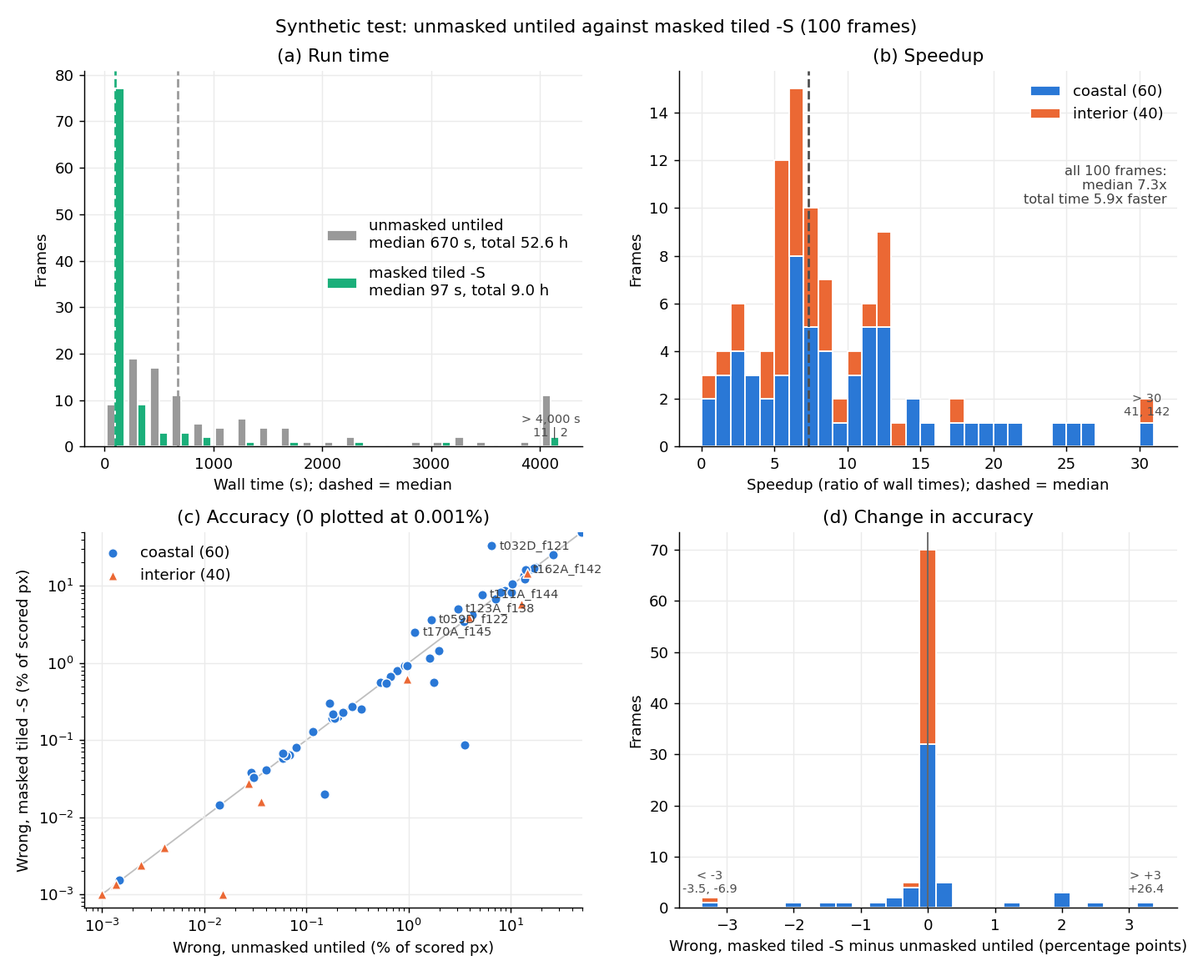
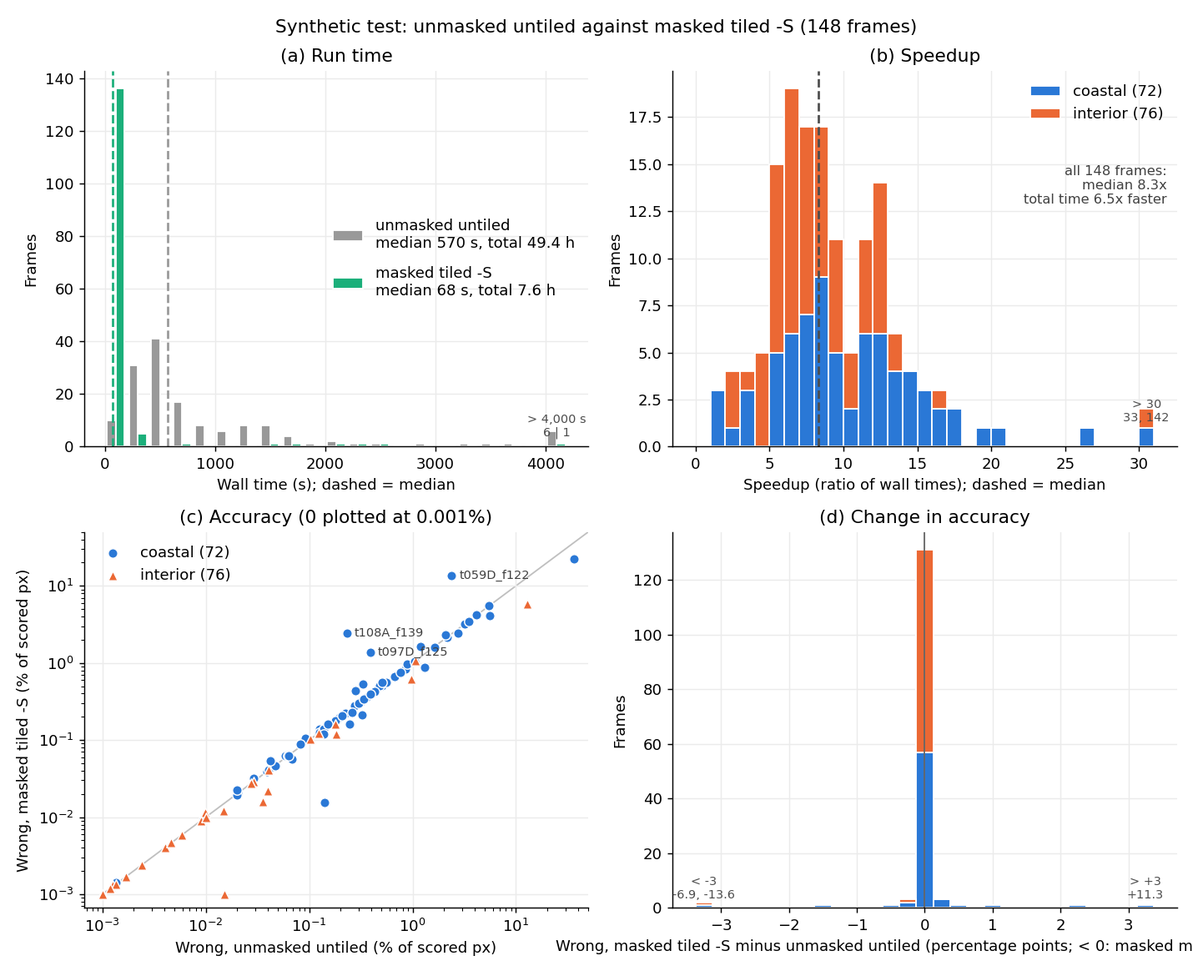
snaphuTilingMasking: 3.5, Table 3, Figure 6 and Appendix A from the corrected test (148 frames, provisional)
Claude-Session: https://claude.ai/code/session_01UG6jZhctxPfaFKqE7cozuF

diff --git a/Documents/snaphuTilingMasking.md b/Documents/snaphuTilingMasking.md
@@ -361,43 +361,45 @@ of the synthetic error therefore says nothing about the unwrapping methods.
 it exceeds pi radians per pixel; blank where the velocity map has no data. (b, c) Pixels with the wrong cycle count
 in the masked tiled `-S` and unmasked untiled solutions; dark grey is masked or has no truth.*
 
-### 3.5 Synthetic test: all 100 frames
+### 3.5 Synthetic test: all frames
 
-Table 3 and Figure 6 summarize the 100 frames (60 coastal, 40 interior); Appendix A lists every frame. Masked tiled
-`-S` unwrapping took a median of 97 s per frame against 670 s for unmasked untiled unwrapping (Figure 6a). The median
-speedup is 7.3 times (Figure 6b), and the total time fell 5.9 times, from 52.6 h to 9.0 h.
+*Provisional: 148 of the 200 frames (72 coastal, 76 interior) of the corrected test have both runs finished. This
+section will be updated when the test finishes.*
 
-**Accuracy.** Most frames are unchanged (Figure 6c, d). On 69 of the 94 frames that could be scored the two errors
-are within 0.07 percentage points of each other, and on 81 within 0.5 points. The remaining differences go both
-ways: ten frames are substantially better and six substantially worse (Table 3). The gains are large on a few
-frames (`t151A_f138` 12.8% to 5.9%, `t044D_f123` 3.6% to 0.09%, `t097D_f125` 1.8% to 0.6%), and the losses are
-large on one (`t032D_f121` 6.5% to 32.9%). Over all scored frames the mean error rose from 3.6% to 3.8% and the
-median fell from 0.098% to 0.074%; the losses (36 percentage points summed) outweigh the gains (17 points), most of
-them on `t032D_f121`.
+Table 3 and Figure 6 summarize the frames finished so far; Appendix A lists every frame. Masked tiled `-S`
+unwrapping took a median of 68 s per frame against 570 s for unmasked untiled unwrapping (Figure 6a). The median
+speedup is 8.3 times (Figure 6b), and the total time fell 6.5 times, from 49.4 h to 7.6 h.
 
-All six losses come from the mask, not from tiling: unwrapping the masked input untiled gives the same error to
-within 0.02 percentage points on every one of them (`t170A_f145`, `t059D_f122`, `t032D_f121`, `t162A_f142`,
-`t123A_f138` and `t111A_f144`). The mask works in both directions. It helps where it removes noise that untiled
-snaphu would otherwise route through good data, and it hurts where it cuts good data into pieces whose relative
-cycle offsets the remaining data no longer fix (Section 4).
+**Accuracy.** Most frames are unchanged (Figure 6c, d). On 128 of the 145 frames that could be scored the two errors
+are within 0.07 percentage points of each other, and on 139 within 0.5 points. The median share of wrong pixels is
+0.036% unmasked untiled and 0.027% masked tiled `-S`. A few frames change substantially, six for the better and three
+for the worse (Table 3):
 
-*Table 3. Synthetic test, all 100 frames, by class. Totals are summed wall-clock times. "Wrong" is the median share
-of scored pixels with the wrong cycle count. "Substantially worse" and "substantially better" use the rule of
-Table 2 in each direction.*
+- Better: `t104A_f142` (36.1% to 22.5%), `t151A_f138` (12.8% to 5.9%), `t111A_f144` (5.6% to 4.1%), and three
+  frames whose errors were already below 0.15% (`t073D_f123`, `t087A_f142`, `t059D_f123`).
+- Worse: `t059D_f122` (2.4% to 13.7%), `t108A_f139` (0.23% to 2.4%) and `t097D_f125` (0.39% to 1.4%).
+
+In the first version of the test, every frame that lost accuracy was also unwrapped with the masked input untiled,
+and in every case that run had the same error as the masked tiled run: the losses came from the mask, not from
+tiling. The three losses in the corrected test have not yet been checked this way.
+
+*Table 3. Synthetic test, the frames finished so far, by class. Totals are summed wall-clock times. "Wrong" is the
+median share of scored pixels with the wrong cycle count. "Substantially worse" and "substantially better" use the
+rule of Table 2 in each direction.*
 
 | Set | Frames | Unmasked untiled, total | Masked tiled `-S`, total | Speedup, median (range) | Wrong, unmasked untiled | Wrong, masked tiled `-S` | Substantially worse | Substantially better |
 |---|---|---|---|---|---|---|---|---|
-| all | 100 | 52.6 h | 9.0 h | 7.3 (0.8-141.8) | 0.098% | 0.074% | 6 of 94 | 10 of 94 |
-| coastal | 60 | 35.5 h | 5.6 h | 8.1 (0.8-41.2) | 0.965% | 0.854% | 6 of 54 | 7 of 54 |
-| interior | 40 | 17.1 h | 3.4 h | 6.6 (0.8-141.8) | 0.000% | 0.000% | 0 of 40 | 3 of 40 |
+| all | 148 | 49.4 h | 7.6 h | 8.3 (1.3-141.8) | 0.036% | 0.027% | 3 of 145 | 6 of 145 |
+| coastal | 72 | 23.4 h | 3.5 h | 9.4 (1.3-33.0) | 0.281% | 0.300% | 3 of 69 | 3 of 69 |
+| interior | 76 | 26.0 h | 4.1 h | 7.6 (2.4-141.8) | 0.000% | 0.000% | 0 of 76 | 3 of 76 |
 
 ![Figure 6](images/snaphuTiling_syntheticSummary.png)
-*Figure 6. Synthetic test, all 100 frames. (a) Wall time of each run, with medians (dashed) and totals; runs longer
-than 4,000 s are in the last bin (unmasked untiled | masked tiled `-S`). (b) Speedup, stacked by class, with the
-median (dashed); speedups above 30 are in the last bin, with their values. (c) Share of scored pixels with the wrong
-cycle count, masked tiled `-S` against unmasked untiled, on log axes (zero plotted at 0.001%); frames substantially
-worse are labelled. (d) Change in that share, masked tiled `-S` minus unmasked untiled (negative where the masked run is more accurate); changes beyond ±3 points
-are in the end bins, with their values.*
+*Figure 6. Synthetic test, the 148 frames finished so far. (a) Wall time of each run, with medians (dashed) and
+totals; runs longer than 4,000 s are in the last bin (unmasked untiled | masked tiled `-S`). (b) Speedup, stacked by
+class, with the median (dashed); speedups above 30 are in the last bin, with their values. (c) Share of scored pixels
+with the wrong cycle count, masked tiled `-S` against unmasked untiled, on log axes (zero plotted at 0.001%); frames
+substantially worse are labelled. (d) Change in that share, masked tiled `-S` minus unmasked untiled (negative where
+the masked run is more accurate); changes beyond ±3 points are in the end bins, with their values.*
 
 ### 3.6 An overflow abort
 
@@ -518,114 +520,162 @@ lost accuracy (all to the mask). Next:
    fill of masked and sub-swath pixels) ahead of tiled unwrapping in production.
 5. **Real-data check.** Repeat the real-data comparison on a sample of frames with the final preprocessing.
 
-## Appendix A: synthetic test, all 100 frames
+## Appendix A: synthetic test, all frames
 
-*Table A1. Synthetic test, the first 100 frames. Columns as in Table 2. Red marks a masked tiled `-S` error
-substantially worse than the unmasked untiled one, green one substantially better (more than double or half, or
-more than 0.5 percentage points apart).*
+*Table A1. Synthetic test (corrected), the 148 frames finished so far; provisional. Columns as in Table 2. Red marks
+a masked tiled `-S` error substantially worse than the unmasked untiled one, green one substantially better (more
+than double or half, or more than 0.5 percentage points apart).*
 
 | Frame | Class | Size (Mpx) | L | Residues | Masked | Unmasked untiled | Masked tiled `-S` | Speedup | Wrong, unmasked untiled | Wrong, masked tiled `-S` |
 |---|---|---|---|---|---|---|---|---|---|---|
 | `t001A_f138` | interior | 14.0 | 208 | 8k | 0.0% | 485 s | 55 s | 8.9 | 0.000% | 0.000% |
-| `t003D_f121` | coastal | 7.0 | 16 | 1,915k | 77.8% | 770 s | 53 s | 14.6 | (no components) | (no components) |
+| `t003D_f121` | coastal | 7.0 | 16 | 138k | 2.4% | 670 s | 45 s | 15.0 | (no components) | (no components) |
 | `t004D_f133` | interior | 9.6 | 208 | 4k | 0.0% | 347 s | 28 s | 12.5 | 0.000% | 0.000% |
-| `t007D_f123` | coastal | 8.6 | 64 | 1,202k | 40.7% | 499 s | 85 s | 5.9 | 0.771% | 0.788% |
-| `t008D_f133` | interior | 6.9 | 208 | 553k | 1.4% | 303 s | 38 s | 7.9 | 0.000% | 0.000% |
-| `t011D_f126` | coastal | 14.3 | 64 | 2,386k | 34.9% | 7,411 s | 180 s | 41.2 | 0.346% | 0.254% |
-| `t011D_f128` | interior | 13.9 | 208 | 46k | 0.0% | 360 s | 54 s | 6.6 | 0.004% | 0.004% |
+| `t006A_f135` | interior | 9.3 | 208 | 46k | 0.0% | 564 s | 51 s | 11.1 | 0.029% | 0.029% |
+| `t007D_f123` | coastal | 8.6 | 64 | 44k | 0.2% | 543 s | 64 s | 8.5 | 0.133% | 0.136% |
+| `t008D_f131` | interior | 12.4 | 208 | 40k | 0.0% | 528 s | 65 s | 8.1 | 0.104% | 0.103% |
+| `t009A_f144` | coastal | 10.2 | 208 | 445k | 3.7% | 1,388 s | 139 s | 10.0 | 1.311% | 0.885% |
+| `t011A_f145` | coastal | 14.4 | 64 | 273k | 1.7% | 2,198 s | 105 s | 21.0 | 0.281% | 0.440% |
+| `t011A_f145` | coastal | 14.4 | 208 | 116k | 0.4% | 1,498 s | 84 s | 17.8 | 0.507% | 0.507% |
+| `t011D_f126` | coastal | 14.3 | 64 | 2,172k | 30.3% | 5,508 s | 167 s | 33.0 | 0.247% | 0.162% |
+| `t011D_f128` | interior | 13.9 | 208 | 46k | 0.0% | 376 s | 49 s | 7.7 | 0.004% | 0.004% |
 | `t013A_f143` | interior | 3.8 | 208 | 8k | 0.0% | 59 s | 11 s | 5.1 | 0.000% | 0.000% |
-| `t013A_f144` | coastal | 14.7 | 64 | 2,563k | 41.8% | 4,053 s | 186 s | 21.8 | 0.911% | 0.924% |
-| `t014A_f143` | coastal | 6.6 | 128 | 767k | 31.6% | 677 s | 81 s | 8.4 | 0.530% | 0.554% |
+| `t013A_f144` | coastal | 14.7 | 208 | 462k | 2.3% | 1,449 s | 127 s | 11.4 | 0.847% | 0.843% |
+| `t013D_f128` | interior | 10.8 | 32 | 83k | 0.3% | 465 s | 114 s | 4.1 | 0.005% | 0.005% |
+| `t014A_f143` | coastal | 6.6 | 128 | 219k | 6.8% | 366 s | 50 s | 7.3 | 0.092% | 0.104% |
 | `t017D_f123` | interior | 9.3 | 208 | 1,873k | 36.5% | 507 s | 82 s | 6.2 | 0.002% | 0.002% |
 | `t018D_f131` | interior | 14.0 | 208 | 94k | 0.0% | 336 s | 67 s | 5.0 | 0.000% | 0.000% |
-| `t020A_f139` | interior | 14.7 | 208 | 66k | 0.0% | 439 s | 67 s | 6.6 | 0.000% | 0.000% |
+| `t020A_f139` | interior | 14.7 | 208 | 66k | 0.0% | 496 s | 68 s | 7.3 | 0.000% | 0.000% |
+| `t020D_f123` | coastal | 14.8 | 208 | 612k | 3.7% | 1,111 s | 163 s | 6.8 | 0.029% | 0.032% |
+| `t022A_f139` | coastal | 6.3 | 64 | 32k | 0.0% | 333 s | 240 s | 1.4 | 59.114% | 59.115% |
+| `t022D_f129` | interior | 12.1 | 128 | 91k | 0.0% | 10,547 s | 2,241 s | 4.7 | 0.002% | 0.002% |
 | `t024A_f143` | interior | 6.9 | 208 | 296k | 1.4% | 235 s | 41 s | 5.7 | 0.000% | 0.000% |
-| `t024D_f119` | coastal | 4.7 | 16 | 1,387k | 88.1% | 304 s | 29 s | 10.5 | (no components) | (no components) |
 | `t025D_f126` | interior | 6.2 | 208 | 534k | 8.2% | 308 s | 37 s | 8.3 | 0.000% | 0.000% |
 | `t027A_f141` | interior | 14.8 | 128 | 152k | 0.0% | 487 s | 196 s | 2.5 | 0.001% | 0.001% |
-| `t030D_f122` | coastal | 4.2 | 64 | 800k | 45.0% | 343 s | 51 s | 6.7 | 1.973% | $\color{green}{\text{1.459\%}}$ |
-| `t032D_f121` | coastal | 13.6 | 32 | 2,355k | 45.5% | 1,403 s | 544 s | 2.6 | 6.512% | $\color{red}{\text{32.918\%}}$ |
+| `t030D_f122` | coastal | 4.2 | 128 | 176k | 2.4% | 362 s | 29 s | 12.6 | 1.189% | 1.636% |
+| `t031D_f123` | interior | 8.5 | 208 | 920k | 10.3% | 382 s | 60 s | 6.4 | 0.001% | 0.001% |
+| `t032D_f121` | coastal | 13.6 | 64 | 548k | 8.3% | 1,447 s | 93 s | 15.5 | 0.329% | 0.527% |
 | `t036A_f138` | interior | 14.4 | 128 | 25k | 0.0% | 830 s | 76 s | 10.9 | 0.000% | 0.000% |
-| `t036A_f139` | coastal | 16.4 | 32 | 2,423k | 43.4% | 3,360 s | 290 s | 11.6 | 3.403% | 3.616% |
-| `t037A_f142` | coastal | 10.0 | 32 | 1,608k | 37.0% | 664 s | 103 s | 6.4 | 0.117% | 0.130% |
-| `t038A_f144` | coastal | 16.1 | 128 | 782k | 7.5% | 1,020 s | 136 s | 7.5 | 0.178% | 0.194% |
+| `t036A_f139` | coastal | 16.4 | 128 | 56k | 0.0% | 1,419 s | 109 s | 13.0 | 0.180% | 0.180% |
+| `t037A_f142` | coastal | 10.0 | 32 | 398k | 1.0% | 597 s | 67 s | 8.9 | 0.127% | 0.139% |
+| `t038A_f144` | coastal | 16.1 | 208 | 216k | 1.6% | 1,166 s | 142 s | 8.2 | 0.326% | 0.212% |
+| `t041A_f140` | interior | 14.4 | 208 | 141k | 0.0% | 483 s | 75 s | 6.5 | 0.000% | 0.000% |
+| `t043D_f128` | interior | 9.6 | 208 | 409k | 0.0% | 364 s | 36 s | 10.2 | 0.001% | 0.001% |
 | `t044A_f139` | interior | 14.7 | 64 | 0k | 0.0% | 311 s | 39 s | 7.9 | 0.000% | 0.000% |
-| `t044D_f123` | coastal | 11.2 | 64 | 2,195k | 51.3% | 1,365 s | 118 s | 11.6 | 3.553% | $\color{green}{\text{0.087\%}}$ |
+| `t044D_f123` | coastal | 11.2 | 128 | 337k | 2.4% | 953 s | 77 s | 12.4 | 0.068% | 0.057% |
+| `t044D_f123` | coastal | 11.6 | 32 | 180k | 0.8% | 881 s | 118 s | 7.4 | 2.157% | 2.154% |
+| `t047D_f123` | interior | 3.9 | 208 | 346k | 0.0% | 153 s | 17 s | 9.0 | 0.001% | 0.001% |
 | `t048A_f137` | interior | 12.4 | 208 | 287k | 2.7% | 514 s | 72 s | 7.1 | 0.000% | 0.000% |
-| `t050A_f140` | coastal | 11.6 | 32 | 2,904k | 71.3% | 1,002 s | 115 s | 8.7 | 0.665% | 0.670% |
-| `t052A_f144` | coastal | 5.0 | 16 | 1,053k | 60.0% | 738 s | 121 s | 6.1 | 17.528% | 17.463% |
-| `t053D_f119` | coastal | 3.2 | 16 | 762k | 70.7% | 156 s | 20 s | 7.8 | (no components) | (no components) |
-| `t055D_f125` | coastal | 9.3 | 64 | 1,638k | 47.4% | 1,543 s | 100 s | 15.4 | 0.061% | 0.068% |
-| `t056A_f145` | coastal | 7.7 | 32 | 1,346k | 48.1% | 443 s | 73 s | 6.1 | 0.058% | 0.059% |
-| `t057D_f127` | coastal | 7.3 | 64 | 695k | 28.0% | 689 s | 781 s | 0.9 | 26.289% | $\color{green}{\text{25.474\%}}$ |
-| `t059D_f122` | coastal | 12.7 | 64 | 2,344k | 52.0% | 2,046 s | 162 s | 12.6 | 1.669% | $\color{red}{\text{3.669\%}}$ |
+| `t049D_f123` | coastal | 14.8 | 128 | 934k | 8.8% | 1,585 s | 132 s | 12.0 | 0.276% | 0.275% |
+| `t050A_f140` | coastal | 11.6 | 64 | 142k | 1.1% | 1,045 s | 62 s | 16.8 | 0.123% | 0.123% |
+| `t050D_f125` | interior | 11.6 | 208 | 4k | 0.0% | 334 s | 34 s | 9.8 | 0.000% | 0.000% |
+| `t051D_f124` | coastal | 6.6 | 16 | 18k | 0.0% | 416 s | 38 s | 10.9 | 0.308% | 0.308% |
+| `t052A_f141` | interior | 14.7 | 208 | 23k | 0.0% | 377 s | 49 s | 7.7 | 0.000% | 0.000% |
+| `t052A_f144` | coastal | 5.0 | 16 | 101k | 3.7% | 434 s | 31 s | 14.0 | 0.890% | 0.959% |
+| `t054D_f126` | interior | 14.3 | 64 | 1,390k | 9.7% | 1,487 s | 121 s | 12.3 | 0.010% | 0.011% |
+| `t055D_f125` | coastal | 9.3 | 64 | 633k | 14.1% | 958 s | 74 s | 13.0 | 0.059% | 0.062% |
+| `t055D_f133` | interior | 10.0 | 208 | 1k | 0.0% | 449 s | 27 s | 16.7 | 0.000% | 0.000% |
+| `t056A_f145` | coastal | 7.7 | 64 | 34k | 0.0% | 626 s | 49 s | 12.8 | 0.039% | 0.039% |
+| `t057D_f127` | coastal | 7.3 | 128 | 15k | 0.0% | 414 s | 112 s | 3.7 | 3.175% | 3.175% |
+| `t057D_f127` | coastal | 6.9 | 208 | 39k | 0.0% | 446 s | 82 s | 5.5 | 3.484% | 3.484% |
+| `t059D_f122` | coastal | 12.7 | 208 | 196k | 1.3% | 1,375 s | 125 s | 11.0 | 2.384% | $\color{red}{\text{13.671\%}}$ |
 | `t059D_f123` | interior | 13.9 | 208 | 65k | 0.1% | 601 s | 89 s | 6.7 | 0.015% | $\color{green}{\text{0.000\%}}$ |
-| `t064A_f140` | coastal | 14.6 | 16 | 3,408k | 55.8% | 3,233 s | 168 s | 19.3 | 0.203% | 0.203% |
-| `t066D_f127` | coastal | 10.8 | 16 | 796k | 20.6% | 1,387 s | 216 s | 6.4 | 7.053% | 6.730% |
-| `t067A_f145` | coastal | 5.1 | 32 | 420k | 18.1% | 442 s | 40 s | 11.0 | 0.167% | 0.303% |
-| `t069D_f125` | coastal | 15.1 | 16 | 3,579k | 69.6% | 1,718 s | 138 s | 12.5 | (no components) | (no components) |
+| `t060A_f135` | interior | 8.1 | 208 | 7k | 0.0% | 222 s | 21 s | 10.7 | 0.000% | 0.000% |
+| `t062A_f137` | interior | 12.0 | 208 | 775k | 0.5% | 575 s | 60 s | 9.6 | 0.001% | 0.001% |
+| `t064A_f140` | coastal | 14.6 | 32 | 2,083k | 30.2% | 2,388 s | 157 s | 15.2 | 0.062% | 0.062% |
+| `t064D_f130` | interior | 13.0 | 208 | 0k | 0.0% | 587 s | 53 s | 11.1 | 0.000% | 0.000% |
+| `t065A_f139` | coastal | 8.5 | 208 | 85k | 0.7% | 765 s | 82 s | 9.3 | 5.440% | 5.506% |
+| `t066D_f127` | coastal | 10.8 | 32 | 38k | 0.1% | 530 s | 84 s | 6.3 | 0.562% | 0.562% |
+| `t067A_f145` | coastal | 5.1 | 32 | 75k | 2.4% | 405 s | 35 s | 11.7 | 0.477% | 0.507% |
+| `t068D_f125` | coastal | 10.0 | 128 | 1,323k | 18.0% | 770 s | 104 s | 7.4 | 0.020% | 0.020% |
+| `t069D_f125` | coastal | 15.1 | 64 | 213k | 3.3% | 1,596 s | 89 s | 17.9 | (no components) | (no components) |
+| `t071A_f134` | interior | 14.0 | 208 | 112k | 0.2% | 518 s | 54 s | 9.7 | 0.000% | 0.000% |
 | `t071A_f136` | interior | 13.3 | 208 | 0k | 0.0% | 355 s | 62 s | 5.7 | 0.000% | 0.000% |
-| `t072D_f127` | coastal | 13.2 | 208 | 907k | 18.9% | 1,062 s | 292 s | 3.6 | 8.730% | 8.757% |
-| `t073D_f123` | coastal | 15.8 | 128 | 1,983k | 24.8% | 1,373 s | 246 s | 5.6 | 0.150% | $\color{green}{\text{0.020\%}}$ |
-| `t074D_f121` | coastal | 8.2 | 32 | 1,852k | 56.5% | 890 s | 71 s | 12.5 | 0.069% | 0.064% |
-| `t075A_f146` | coastal | 15.1 | 16 | 4,520k | 90.5% | 1,405 s | 127 s | 11.1 | (no components) | (no components) |
+| `t072D_f127` | coastal | 13.2 | 208 | 13k | 0.0% | 835 s | 65 s | 12.9 | 0.224% | 0.223% |
+| `t073D_f123` | coastal | 15.8 | 208 | 647k | 2.3% | 1,452 s | 111 s | 13.1 | 0.141% | $\color{green}{\text{0.015\%}}$ |
+| `t073D_f124` | interior | 2.7 | 208 | 0k | 0.0% | 47 s | 8 s | 6.2 | 0.000% | 0.000% |
 | `t075D_f123` | interior | 3.8 | 208 | 28k | 0.0% | 132 s | 17 s | 7.8 | 0.000% | 0.000% |
-| `t076A_f142` | coastal | 2.4 | 16 | 725k | 92.1% | 105 s | 16 s | 6.5 | (no components) | (no components) |
-| `t078D_f122` | coastal | 3.9 | 16 | 989k | 73.9% | 270 s | 23 s | 11.6 | 0.228% | 0.227% |
-| `t080A_f139` | coastal | 10.1 | 208 | 599k | 12.1% | 582 s | 153 s | 3.8 | 13.538% | 13.553% |
-| `t080D_f133` | interior | 10.0 | 208 | 408k | 2.8% | 328 s | 65 s | 5.0 | 0.000% | 0.000% |
-| `t081D_f127` | coastal | 15.0 | 32 | 1,443k | 27.2% | 11,098 s | 3,193 s | 3.5 | 4.230% | 4.183% |
-| `t082D_f130` | interior | 4.2 | 208 | 0k | 0.0% | 125 s | 13 s | 9.4 | 0.000% | 0.000% |
-| `t083D_f125` | coastal | 14.7 | 32 | 1,840k | 27.3% | 1,232 s | 171 s | 7.2 | 0.041% | 0.041% |
-| `t085D_f126` | coastal | 10.9 | 64 | 1,862k | 39.1% | 1,951 s | 114 s | 17.1 | 0.029% | 0.038% |
+| `t076A_f142` | coastal | 2.4 | 16 | 5k | 0.0% | 94 s | 12 s | 8.1 | (no components) | (no components) |
+| `t078A_f140` | interior | 7.7 | 64 | 734k | 21.6% | 755 s | 55 s | 13.7 | 0.040% | 0.022% |
+| `t080A_f136` | interior | 12.8 | 64 | 5k | 0.0% | 392 s | 42 s | 9.3 | 0.009% | 0.009% |
+| `t080A_f139` | coastal | 10.1 | 208 | 144k | 0.0% | 510 s | 63 s | 8.1 | 0.428% | 0.428% |
+| `t081D_f127` | coastal | 15.0 | 208 | 215k | 2.4% | 1,655 s | 145 s | 11.4 | 0.260% | 0.228% |
+| `t082D_f130` | interior | 4.2 | 208 | 0k | 0.0% | 115 s | 14 s | 8.3 | 0.000% | 0.000% |
+| `t083D_f125` | coastal | 14.7 | 32 | 1,840k | 27.3% | 1,081 s | 187 s | 5.8 | 0.041% | 0.041% |
 | `t085D_f129` | interior | 12.5 | 208 | 54k | 0.1% | 769 s | 104 s | 7.4 | 0.000% | 0.000% |
 | `t086A_f136` | interior | 14.0 | 208 | 6k | 0.0% | 396 s | 49 s | 8.1 | 0.000% | 0.000% |
 | `t087A_f142` | interior | 14.4 | 64 | 483k | 5.1% | 20,277 s | 143 s | 141.8 | 0.036% | $\color{green}{\text{0.016\%}}$ |
-| `t087D_f125` | coastal | 14.7 | 32 | 1,287k | 17.6% | 1,704 s | 596 s | 2.9 | 3.473% | 3.470% |
-| `t095A_f143` | coastal | 7.8 | 128 | 1,099k | 32.6% | 1,252 s | 84 s | 14.9 | 0.188% | 0.193% |
-| `t097D_f125` | coastal | 15.8 | 128 | 4,036k | 70.7% | 5,958 s | 320 s | 18.6 | 1.779% | $\color{green}{\text{0.562\%}}$ |
-| `t099D_f126` | coastal | 14.4 | 32 | 3,259k | 58.0% | 3,885 s | 144 s | 26.9 | 0.063% | 0.063% |
+| `t087D_f125` | coastal | 14.7 | 32 | 423k | 0.3% | 1,292 s | 180 s | 7.2 | 1.649% | 1.608% |
+| `t091D_f125` | interior | 14.7 | 64 | 143k | 0.5% | 1,764 s | 152 s | 11.6 | 0.181% | 0.120% |
+| `t094D_f129` | interior | 12.0 | 64 | 78k | 0.0% | 5,290 s | 2,156 s | 2.5 | 0.006% | 0.006% |
+| `t095A_f143` | coastal | 7.8 | 128 | 460k | 8.4% | 740 s | 56 s | 13.3 | 0.047% | 0.046% |
+| `t097D_f125` | coastal | 15.8 | 128 | 2,404k | 40.0% | 3,381 s | 238 s | 14.2 | 0.389% | $\color{red}{\text{1.386\%}}$ |
+| `t098A_f143` | interior | 12.4 | 208 | 119k | 0.1% | 589 s | 48 s | 12.3 | 0.000% | 0.000% |
+| `t099D_f126` | coastal | 14.4 | 32 | 2,799k | 49.0% | 3,675 s | 138 s | 26.6 | 0.063% | 0.063% |
+| `t101A_f142` | interior | 14.8 | 64 | 1,041k | 7.2% | 925 s | 152 s | 6.1 | 0.010% | 0.010% |
+| `t102D_f122` | coastal | 5.8 | 32 | 79k | 1.0% | 435 s | 31 s | 14.0 | 1.045% | 1.045% |
 | `t102D_f124` | interior | 14.0 | 208 | 377k | 0.1% | 456 s | 89 s | 5.1 | 0.000% | 0.000% |
 | `t103D_f127` | interior | 9.7 | 208 | 68k | 0.0% | 284 s | 48 s | 5.9 | 0.000% | 0.000% |
-| `t106A_f140` | coastal | 14.3 | 208 | 2,217k | 22.3% | 5,412 s | 216 s | 25.1 | 1.607% | 1.165% |
-| `t107D_f123` | coastal | 8.2 | 64 | 686k | 23.3% | 870 s | 102 s | 8.6 | 0.960% | 0.921% |
-| `t108A_f139` | coastal | 15.4 | 32 | 2,277k | 40.4% | 15,157 s | 1,351 s | 11.2 | 49.517% | 49.389% |
+| `t104A_f142` | coastal | 14.6 | 32 | 1,080k | 9.8% | 2,457 s | 1,678 s | 1.5 | 36.117% | $\color{green}{\text{22.486\%}}$ |
+| `t107D_f123` | coastal | 8.2 | 64 | 83k | 1.9% | 698 s | 82 s | 8.5 | 0.200% | 0.199% |
+| `t108A_f139` | coastal | 15.4 | 64 | 457k | 5.2% | 5,289 s | 1,445 s | 3.7 | 0.231% | $\color{red}{\text{2.418\%}}$ |
 | `t108D_f127` | interior | 14.7 | 208 | 1k | 0.0% | 474 s | 41 s | 11.5 | 0.000% | 0.000% |
-| `t111A_f144` | coastal | 14.7 | 128 | 1,681k | 18.8% | 10,872 s | 2,375 s | 4.6 | 5.262% | $\color{red}{\text{7.684\%}}$ |
-| `t113D_f126` | interior | 14.3 | 128 | 3,252k | 60.6% | 2,999 s | 175 s | 17.1 | 0.001% | 0.001% |
-| `t115D_f127` | coastal | 10.8 | 208 | 854k | 20.0% | 590 s | 143 s | 4.1 | 13.704% | $\color{green}{\text{12.162\%}}$ |
+| `t110A_f140` | interior | 8.5 | 208 | 352k | 0.0% | 250 s | 33 s | 7.6 | 0.001% | 0.001% |
+| `t111A_f144` | coastal | 14.7 | 208 | 872k | 3.8% | 3,460 s | 2,582 s | 1.3 | 5.609% | $\color{green}{\text{4.128\%}}$ |
+| `t111D_f126` | interior | 9.3 | 208 | 698k | 6.3% | 1,240 s | 241 s | 5.1 | 0.001% | 0.001% |
+| `t113A_f142` | interior | 14.3 | 64 | 69k | 0.1% | 979 s | 180 s | 5.4 | 0.178% | 0.162% |
+| `t113D_f126` | interior | 14.3 | 128 | 3,252k | 60.6% | 2,036 s | 168 s | 12.1 | 0.001% | 0.001% |
+| `t115D_f127` | coastal | 10.8 | 208 | 50k | 0.0% | 610 s | 75 s | 8.1 | 0.311% | 0.311% |
+| `t115D_f127` | coastal | 10.8 | 208 | 15k | 0.0% | 581 s | 51 s | 11.4 | 0.356% | 0.356% |
 | `t115D_f129` | interior | 12.0 | 208 | 14k | 0.0% | 507 s | 41 s | 12.4 | 0.027% | 0.027% |
 | `t116A_f141` | interior | 5.4 | 208 | 7k | 0.0% | 130 s | 21 s | 6.1 | 0.000% | 0.000% |
-| `t116D_f126` | coastal | 14.3 | 128 | 547k | 5.3% | 2,356 s | 261 s | 9.0 | 0.059% | 0.067% |
+| `t116D_f125` | interior | 14.7 | 128 | 199k | 0.0% | 796 s | 215 s | 3.7 | 0.041% | 0.041% |
+| `t116D_f126` | coastal | 14.3 | 128 | 519k | 4.8% | 1,783 s | 205 s | 8.7 | 0.042% | 0.053% |
+| `t118D_f132` | interior | 13.9 | 208 | 23k | 0.0% | 381 s | 60 s | 6.3 | 0.000% | 0.000% |
 | `t119A_f140` | interior | 7.3 | 128 | 31k | 0.0% | 429 s | 33 s | 13.0 | 0.001% | 0.001% |
 | `t121D_f124` | interior | 3.8 | 208 | 134k | 0.0% | 88 s | 16 s | 5.7 | 0.001% | 0.001% |
-| `t123A_f138` | coastal | 10.8 | 208 | 60k | 0.1% | 622 s | 74 s | 8.4 | 3.055% | $\color{red}{\text{4.980\%}}$ |
-| `t124A_f139` | coastal | 15.0 | 128 | 1,244k | 11.9% | 1,000 s | 165 s | 6.1 | 0.014% | 0.014% |
+| `t122D_f123` | coastal | 7.4 | 208 | 30k | 0.0% | 333 s | 44 s | 7.6 | 0.125% | 0.126% |
+| `t123A_f138` | coastal | 10.8 | 208 | 59k | 0.1% | 596 s | 63 s | 9.5 | 4.167% | 4.248% |
+| `t124A_f139` | coastal | 15.0 | 208 | 588k | 1.3% | 1,142 s | 125 s | 9.1 | 0.010% | 0.010% |
+| `t125A_f134` | interior | 14.3 | 128 | 145k | 0.2% | 651 s | 140 s | 4.7 | 0.001% | 0.001% |
 | `t126A_f140` | interior | 14.4 | 208 | 74k | 0.0% | 540 s | 95 s | 5.7 | 0.000% | 0.000% |
 | `t127A_f142` | interior | 3.8 | 208 | 145k | 0.0% | 106 s | 16 s | 6.6 | 0.001% | 0.001% |
-| `t128A_f145` | coastal | 7.8 | 32 | 1,274k | 47.5% | 642 s | 64 s | 10.1 | 0.183% | 0.219% |
-| `t131D_f122` | coastal | 6.6 | 32 | 1,709k | 74.2% | 689 s | 55 s | 12.6 | 10.248% | $\color{green}{\text{8.281\%}}$ |
-| `t136A_f140` | coastal | 14.3 | 32 | 3,656k | 69.4% | 4,146 s | 168 s | 24.7 | 0.079% | 0.079% |
-| `t138A_f141` | coastal | 9.3 | 32 | 1,653k | 39.3% | 3,195 s | 1,736 s | 1.8 | 16.090% | 16.434% |
+| `t128A_f139` | interior | 8.1 | 208 | 52k | 0.0% | 404 s | 43 s | 9.4 | 0.000% | 0.000% |
+| `t128A_f145` | coastal | 7.8 | 128 | 38k | 0.0% | 497 s | 41 s | 12.1 | 0.196% | 0.196% |
+| `t128A_f145` | coastal | 9.3 | 64 | 85k | 0.0% | 600 s | 51 s | 11.8 | 0.139% | 0.139% |
+| `t131D_f122` | coastal | 6.6 | 128 | 243k | 5.5% | 627 s | 42 s | 14.8 | 2.765% | 2.437% |
+| `t132D_f123` | interior | 5.7 | 208 | 808k | 18.2% | 305 s | 44 s | 6.9 | 0.000% | 0.000% |
+| `t136A_f140` | coastal | 14.3 | 64 | 2,620k | 48.1% | 2,872 s | 146 s | 19.7 | 0.020% | 0.019% |
+| `t138A_f139` | coastal | 10.8 | 208 | 65k | 0.0% | 438 s | 68 s | 6.5 | 0.179% | 0.178% |
+| `t138A_f141` | coastal | 9.3 | 32 | 517k | 5.4% | 1,347 s | 178 s | 7.6 | 2.100% | 2.340% |
+| `t139A_f139` | interior | 11.2 | 208 | 1k | 0.0% | 296 s | 26 s | 11.6 | 0.000% | 0.000% |
 | `t144A_f135` | interior | 12.8 | 208 | 5k | 0.0% | 603 s | 49 s | 12.3 | 0.000% | 0.000% |
-| `t144A_f143` | coastal | 10.5 | 64 | 1,420k | 26.1% | 2,332 s | 191 s | 12.2 | 0.970% | 0.929% |
-| `t145D_f123` | coastal | 14.4 | 208 | 2,288k | 35.8% | 4,442 s | 213 s | 20.8 | 0.606% | 0.548% |
+| `t144A_f136` | interior | 13.2 | 208 | 88k | 0.0% | 504 s | 82 s | 6.1 | 0.000% | 0.000% |
+| `t144A_f143` | coastal | 10.5 | 64 | 525k | 1.9% | 992 s | 137 s | 7.2 | 0.152% | 0.162% |
+| `t145D_f123` | coastal | 14.4 | 208 | 659k | 6.1% | 1,376 s | 140 s | 9.8 | 0.082% | 0.089% |
 | `t146D_f123` | interior | 6.6 | 208 | 490k | 2.5% | 225 s | 36 s | 6.3 | 0.000% | 0.000% |
-| `t148A_f142` | coastal | 5.4 | 128 | 1,413k | 77.2% | 319 s | 50 s | 6.4 | 0.283% | 0.274% |
+| `t146D_f123` | interior | 7.0 | 208 | 1,326k | 28.3% | 345 s | 48 s | 7.1 | 0.001% | 0.001% |
+| `t148A_f142` | coastal | 5.4 | 128 | 4k | 0.0% | 292 s | 21 s | 14.0 | 0.300% | 0.300% |
+| `t149A_f139` | interior | 9.3 | 208 | 346k | 1.1% | 563 s | 45 s | 12.5 | 0.001% | 0.001% |
 | `t151A_f138` | interior | 13.9 | 32 | 157k | 0.7% | 20,095 s | 4,818 s | 4.2 | 12.760% | $\color{green}{\text{5.886\%}}$ |
-| `t152A_f139` | coastal | 5.4 | 208 | 201k | 8.3% | 246 s | 297 s | 0.8 | 17.008% | 17.008% |
-| `t162A_f142` | coastal | 14.4 | 16 | 938k | 11.2% | 1,510 s | 842 s | 1.8 | 14.030% | $\color{red}{\text{16.098\%}}$ |
+| `t152A_f139` | coastal | 5.4 | 208 | 31k | 0.0% | 243 s | 44 s | 5.5 | 0.338% | 0.337% |
+| `t155A_f144` | interior | 14.7 | 208 | 782k | 6.8% | 1,336 s | 139 s | 9.6 | 0.015% | 0.012% |
+| `t157A_f144` | coastal | 14.8 | 128 | 196k | 1.3% | 1,031 s | 172 s | 6.0 | 0.138% | 0.118% |
+| `t159A_f134` | interior | 14.2 | 208 | 22k | 0.0% | 496 s | 60 s | 8.3 | 0.000% | 0.000% |
+| `t160D_f122` | coastal | 14.0 | 208 | 428k | 3.5% | 1,848 s | 111 s | 16.6 | 0.510% | 0.564% |
+| `t161D_f123` | interior | 5.4 | 208 | 577k | 14.3% | 262 s | 39 s | 6.7 | 0.001% | 0.001% |
+| `t162A_f142` | coastal | 14.4 | 16 | 400k | 1.2% | 1,222 s | 193 s | 6.3 | 0.393% | 0.395% |
 | `t165D_f132` | interior | 14.1 | 208 | 0k | 0.0% | 541 s | 40 s | 13.5 | 0.000% | 0.000% |
-| `t166A_f135` | interior | 12.5 | 128 | 120k | 0.0% | 3,541 s | 4,504 s | 0.8 | 14.547% | 14.547% |
-| `t166A_f139` | coastal | 7.0 | 64 | 848k | 35.2% | 1,326 s | 556 s | 2.4 | 49.623% | 49.287% |
-| `t168A_f144` | coastal | 14.3 | 208 | 440k | 3.1% | 595 s | 111 s | 5.4 | 0.001% | 0.002% |
-| `t169D_f131` | interior | 3.8 | 208 | 299k | 8.3% | 154 s | 86 s | 1.8 | 3.914% | 3.913% |
-| `t170A_f145` | coastal | 3.5 | 32 | 820k | 59.7% | 222 s | 30 s | 7.3 | 1.152% | $\color{red}{\text{2.488\%}}$ |
+| `t166A_f139` | coastal | 7.0 | 32 | 38k | 0.0% | 560 s | 67 s | 8.4 | 63.759% | 63.759% |
+| `t168A_f144` | coastal | 14.3 | 208 | 406k | 2.6% | 598 s | 111 s | 5.4 | 0.001% | 0.001% |
+| `t169D_f130` | interior | 13.1 | 208 | 148k | 0.2% | 586 s | 65 s | 9.0 | 0.123% | 0.122% |
+| `t169D_f131` | interior | 3.8 | 208 | 285k | 8.1% | 193 s | 26 s | 7.4 | 1.059% | 1.060% |
 | `t171A_f141` | interior | 15.1 | 128 | 118k | 0.2% | 1,620 s | 674 s | 2.4 | 0.976% | 0.625% |
-| `t171A_f144` | coastal | 11.9 | 32 | 799k | 11.2% | 804 s | 110 s | 7.3 | 0.030% | 0.033% |
-| `t172D_f127` | coastal | 5.1 | 208 | 426k | 19.4% | 1,607 s | 712 s | 2.3 | 10.280% | 10.504% |
+| `t171A_f144` | coastal | 11.9 | 32 | 304k | 2.8% | 696 s | 101 s | 6.9 | 0.020% | 0.023% |
+| `t172D_f127` | coastal | 5.1 | 208 | 50k | 0.0% | 376 s | 126 s | 3.0 | 0.672% | 0.672% |
+| `t172D_f127` | coastal | 4.7 | 64 | 24k | 0.0% | 295 s | 78 s | 3.8 | 0.757% | 0.757% |
 | `t172D_f132` | interior | 6.6 | 208 | 75k | 0.0% | 213 s | 40 s | 5.3 | 0.001% | 0.001% |
-| `t173D_f127` | coastal | 12.7 | 128 | 887k | 16.1% | 965 s | 866 s | 1.1 | 8.000% | 8.184% |
+| `t173D_f127` | coastal | 12.7 | 208 | 172k | 0.0% | 677 s | 120 s | 5.6 | 0.208% | 0.207% |
 
 ## Appendix B: files
 
